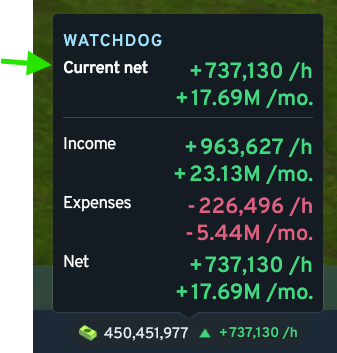
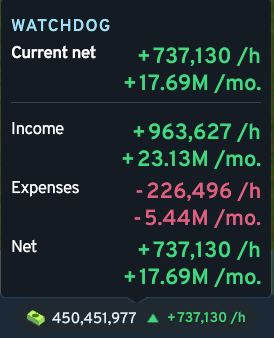
tidy

diff --git a/src/UI/src/mods/ToolbarMoneyView/MoneyViewTooltip.tsx b/src/UI/src/mods/ToolbarMoneyView/MoneyViewTooltip.tsx
@@ -48,8 +48,8 @@ export const MoneyViewTooltipContent = ({ baseContent }: { readonly baseContent:
     const tooltipClassName = getTooltipRowsClassName(moneyTooltipMode);
     const tooltipValueSize = getTooltipValueSize(moneyTooltipFontScale);
     const topLabel = mini
-        ? localize("MoneyViewTooltipNet", "Net:")
-        : localize("MoneyViewTooltipCurrentTrend", "Current net:");
+        ? localize("MoneyViewTooltipNet", "Net")
+        : localize("MoneyViewTooltipCurrentTrend", "Net");
     const tooltipStyle = {
         "--moneyTooltipValueSizeFull": tooltipValueSize,
         "--moneyTooltipValueSizeCompact": tooltipValueSize,

diff --git a/src/Localization/LocaleDE.cs b/src/Localization/LocaleDE.cs
@@ -213,16 +213,16 @@ namespace CityWatchdog
                 { m_Settings.GetUILocaleID("ToggleAllTooltip"),
                     "Alle Symbole anzeigen/verstecken.\n" +
                     "Farbe: grün = alles an; blau = gemischt; rot = alles aus." },
-                { m_Settings.GetUILocaleID("MoneyViewTooltipIncome"), "Einnahmen:" },
-                { m_Settings.GetUILocaleID("MoneyViewTooltipExpenses"), "Ausgaben:" },
-                { m_Settings.GetUILocaleID("MoneyViewTooltipNet"), "Netto:" },
-                { m_Settings.GetUILocaleID("MoneyViewTooltipTotal"), "Gesamt:" },
-                { m_Settings.GetUILocaleID("MoneyViewTooltipCurrentTrend"), "Aktuelles Netto:" },
-                { m_Settings.GetUILocaleID("PopulationTooltipCurrentTrend"), "Aktueller Trend:" },
-                { m_Settings.GetUILocaleID("PopulationTooltipBirths"), "Geburten:" },
-                { m_Settings.GetUILocaleID("PopulationTooltipDeaths"), "Todesfälle:" },
-                { m_Settings.GetUILocaleID("PopulationTooltipMovedIn"), "Zuzüge:" },
-                { m_Settings.GetUILocaleID("PopulationTooltipMovedOut"), "Wegzüge:" },
+                { m_Settings.GetUILocaleID("MoneyViewTooltipIncome"), "Einnahmen" },
+                { m_Settings.GetUILocaleID("MoneyViewTooltipExpenses"), "Ausgaben" },
+                { m_Settings.GetUILocaleID("MoneyViewTooltipNet"), "Netto" },
+                { m_Settings.GetUILocaleID("MoneyViewTooltipTotal"), "Gesamt" },
+                { m_Settings.GetUILocaleID("MoneyViewTooltipCurrentTrend"), "Aktuelles Netto" },
+                { m_Settings.GetUILocaleID("PopulationTooltipCurrentTrend"), "Aktueller Trend" },
+                { m_Settings.GetUILocaleID("PopulationTooltipBirths"), "Geburten" },
+                { m_Settings.GetUILocaleID("PopulationTooltipDeaths"), "Todesfälle" },
+                { m_Settings.GetUILocaleID("PopulationTooltipMovedIn"), "Zuzüge" },
+                { m_Settings.GetUILocaleID("PopulationTooltipMovedOut"), "Wegzüge" },
 
                 // --- Electricity notifications ---
                 { m_Settings.GetUILocaleID("Electricity"), "STROM" },

diff --git a/src/Localization/LocaleEN.cs b/src/Localization/LocaleEN.cs
@@ -228,16 +228,16 @@ namespace CityWatchdog
                 { m_Settings.GetUILocaleID("ToggleAllTooltip"),
                     "Show/hide all icons.\n" +
                     "Color: green = all on; blue = mixed; red = all off." },
-                { m_Settings.GetUILocaleID("MoneyViewTooltipIncome"), "Income:" },
-                { m_Settings.GetUILocaleID("MoneyViewTooltipExpenses"), "Expenses:" },
-                { m_Settings.GetUILocaleID("MoneyViewTooltipNet"), "Net:" },
-                { m_Settings.GetUILocaleID("MoneyViewTooltipTotal"), "Total:" },
-                { m_Settings.GetUILocaleID("MoneyViewTooltipCurrentTrend"), "Current net:" },
-                { m_Settings.GetUILocaleID("PopulationTooltipCurrentTrend"), "Current trend:" },
-                { m_Settings.GetUILocaleID("PopulationTooltipBirths"), "Births:" },
-                { m_Settings.GetUILocaleID("PopulationTooltipDeaths"), "Deaths:" },
-                { m_Settings.GetUILocaleID("PopulationTooltipMovedIn"), "Moved in:" },
-                { m_Settings.GetUILocaleID("PopulationTooltipMovedOut"), "Moved out:" },
+                { m_Settings.GetUILocaleID("MoneyViewTooltipIncome"), "Income" },
+                { m_Settings.GetUILocaleID("MoneyViewTooltipExpenses"), "Expenses" },
+                { m_Settings.GetUILocaleID("MoneyViewTooltipNet"), "Net" },
+                { m_Settings.GetUILocaleID("MoneyViewTooltipTotal"), "Total" },
+                { m_Settings.GetUILocaleID("MoneyViewTooltipCurrentTrend"), "Net" },
+                { m_Settings.GetUILocaleID("PopulationTooltipCurrentTrend"), "Current trend" },
+                { m_Settings.GetUILocaleID("PopulationTooltipBirths"), "Births" },
+                { m_Settings.GetUILocaleID("PopulationTooltipDeaths"), "Deaths" },
+                { m_Settings.GetUILocaleID("PopulationTooltipMovedIn"), "Moved in" },
+                { m_Settings.GetUILocaleID("PopulationTooltipMovedOut"), "Moved out" },
 
                 // --- Electricity notifications ---
                 { m_Settings.GetUILocaleID("Electricity"), "ELECTRICITY" },

diff --git a/src/Localization/LocaleES.cs b/src/Localization/LocaleES.cs
@@ -215,14 +215,14 @@ namespace CityWatchdog
                     "Color: verde = todo activado; azul = mixto; rojo = todo desactivado." },
                 { m_Settings.GetUILocaleID("MoneyViewTooltipIncome"), "Ingresos:" },
                 { m_Settings.GetUILocaleID("MoneyViewTooltipExpenses"), "Gastos:" },
-                { m_Settings.GetUILocaleID("MoneyViewTooltipNet"), "Neto:" },
-                { m_Settings.GetUILocaleID("MoneyViewTooltipTotal"), "Total:" },
-                { m_Settings.GetUILocaleID("MoneyViewTooltipCurrentTrend"), "Neto actual:" },
-                { m_Settings.GetUILocaleID("PopulationTooltipCurrentTrend"), "Tendencia actual:" },
-                { m_Settings.GetUILocaleID("PopulationTooltipBirths"), "Nacimientos:" },
-                { m_Settings.GetUILocaleID("PopulationTooltipDeaths"), "Muertes:" },
-                { m_Settings.GetUILocaleID("PopulationTooltipMovedIn"), "Llegadas:" },
-                { m_Settings.GetUILocaleID("PopulationTooltipMovedOut"), "Salidas:" },
+                { m_Settings.GetUILocaleID("MoneyViewTooltipNet"), "Neto" },
+                { m_Settings.GetUILocaleID("MoneyViewTooltipTotal"), "Total" },
+                { m_Settings.GetUILocaleID("MoneyViewTooltipCurrentTrend"), "Neto actual" },
+                { m_Settings.GetUILocaleID("PopulationTooltipCurrentTrend"), "Tendencia actual" },
+                { m_Settings.GetUILocaleID("PopulationTooltipBirths"), "Nacimientos" },
+                { m_Settings.GetUILocaleID("PopulationTooltipDeaths"), "Muertes" },
+                { m_Settings.GetUILocaleID("PopulationTooltipMovedIn"), "Llegadas" },
+                { m_Settings.GetUILocaleID("PopulationTooltipMovedOut"), "Salidas" },
 
                 // --- Electricity notifications ---
                 { m_Settings.GetUILocaleID("Electricity"), "ELECTRICIDAD" },